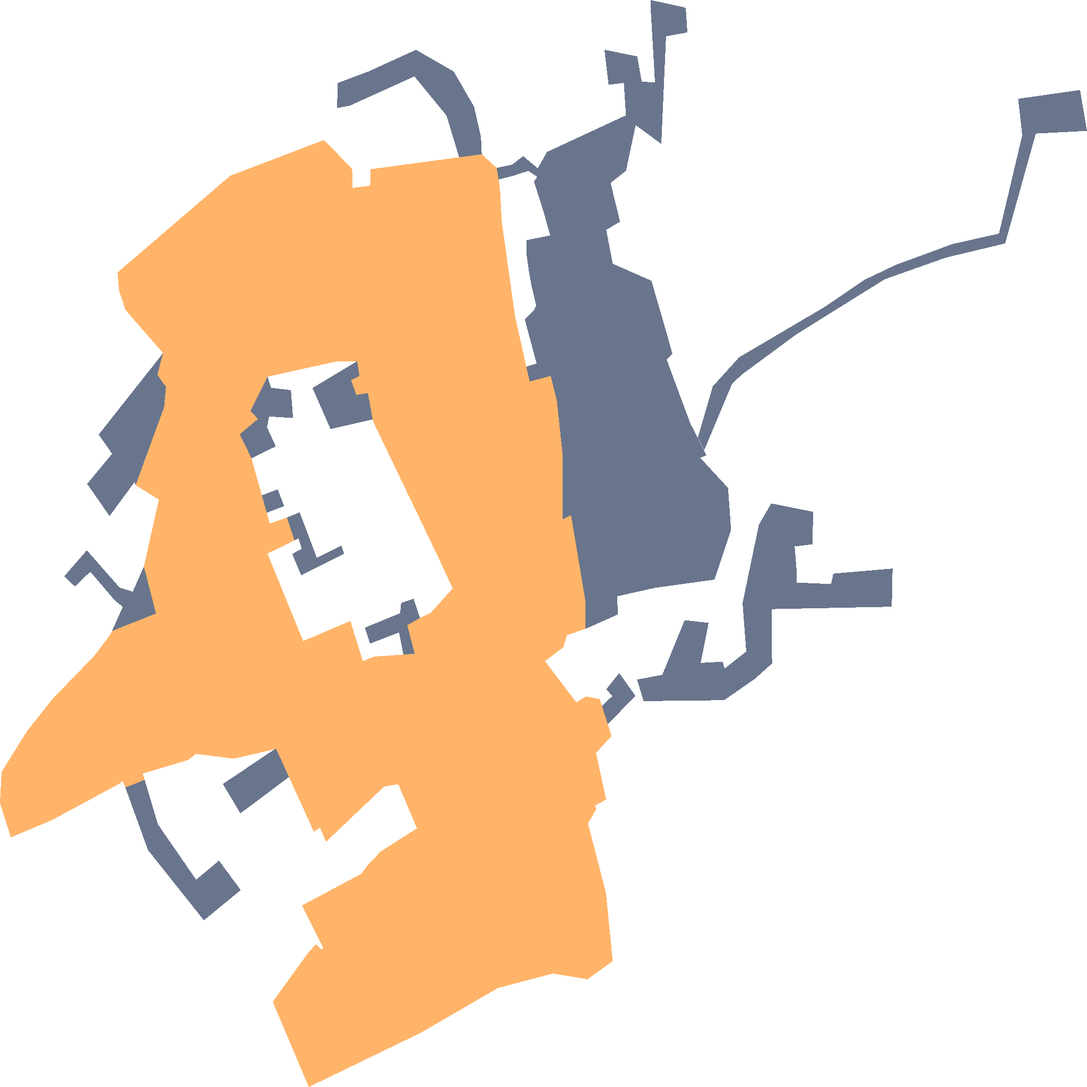
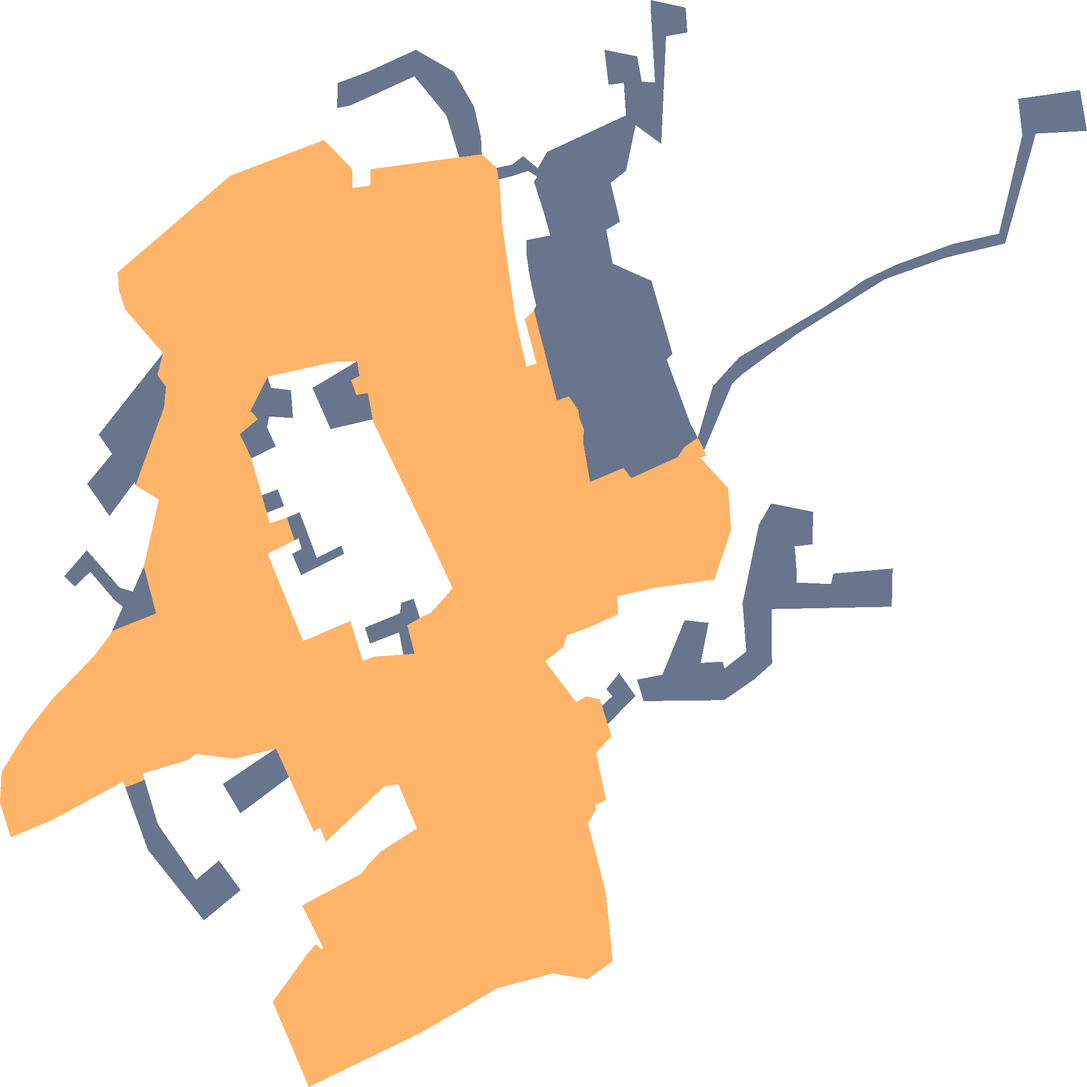
Karte p_67

Changed region(s): [[0.5, 0.3438, 0.6875, 0.5938], [0.4688, 0.2812, 0.5, 0.3438]]

diff --git a/p_67.html b/p_67.html
@@ -141,7 +141,7 @@
         L.control.zoom({
             position: 'topleft'
         }).addTo(map);
-        const geoJsonData = {"type": "FeatureCollection", "features": [{"type": "Feature", "geometry": {"type": "MultiPolygon", "coordinates": [[[[9.317827734, 49.126337592], [9.317357299, 49.127087081], [9.317508766, 49.127119823], [9.317640221, 49.127149886], [9.317758483, 49.127178162], [9.318033216, 49.126645069], [9.318826487, 49.125983083], [9.319299537, 49.126211683], [9.319750755, 49.125859258], [9.318986595, 49.125497304], [9.317827734, 49.126337592]]]]}, "properties": {"dgn_phase": 2}}, {"type": "Feature", "geometry": {"type": "MultiPolygon", "coordinates": [[[[9.329229399, 49.131269641], [9.329540521, 49.131883936], [9.330086349, 49.132232153], [9.331873936, 49.132839293], [9.332684491, 49.133158932], [9.333342213, 49.133339285], [9.334513013, 49.133587494], [9.3354764, 49.133712491], [9.335959458, 49.134889231], [9.335874854, 49.13532492], [9.337157551, 49.135430271], [9.337302194, 49.134941014], [9.33624056, 49.134908873], [9.335604669, 49.133594637], [9.334373828, 49.133424998], [9.333107506, 49.133166075], [9.331278984, 49.132508938], [9.330132744, 49.132021437], [9.329938975, 49.131912507], [9.329363127, 49.131121423], [9.329229399, 49.131269641]]]]}, "properties": {"dgn_phase": 2}}, {"type": "Feature", "geometry": {"type": "MultiPolygon", "coordinates": [[[[9.327969901, 49.128377083], [9.328493896, 49.12843423], [9.328957849, 49.129087849], [9.329454554, 49.129055704], [9.329290804, 49.128577099], [9.329743841, 49.128591385], [9.329787508, 49.128509236], [9.330235087, 49.128712823], [9.330158671, 49.129291433], [9.330497085, 49.130230768], [9.330753624, 49.130484349], [9.331621491, 49.130384346], [9.331610574, 49.129995043], [9.33123941, 49.129970042], [9.331283076, 49.12965574], [9.331283076, 49.129537876], [9.331992653, 49.129520018], [9.332041777, 49.129645026], [9.33326989, 49.129705742], [9.333253516, 49.129248573], [9.330759082, 49.12922], [9.330769998, 49.128569955], [9.330409752, 49.128384226], [9.329776592, 49.128130634], [9.328106358, 49.128119919], [9.327969901, 49.128377083]]]]}, "properties": {"dgn_phase": 2}}, {"type": "Feature", "geometry": {"type": "MultiPolygon", "coordinates": [[[[9.324280104, 49.134625404], [9.324749515, 49.134661116], [9.325058591, 49.134498624], [9.325100551, 49.134360683], [9.325131936, 49.134222296], [9.325162981, 49.133863826], [9.325439988, 49.132725009], [9.325674366, 49.132120151], [9.32574315, 49.131942637], [9.326178188, 49.132009941], [9.326288673, 49.131758789], [9.326307855, 49.131715184], [9.326428539, 49.131056059], [9.326426021, 49.130672527], [9.326428629, 49.130295651], [9.326601751, 49.130345187], [9.326790599, 49.129694304], [9.326899884, 49.129310454], [9.326901812, 49.128984463], [9.326516634, 49.128907926], [9.326441923, 49.128764613], [9.326062233, 49.128597189], [9.326709038, 49.128104292], [9.326912358, 49.128175293], [9.327197475, 49.128144003], [9.327243053, 49.128061047], [9.327361938, 49.12784466], [9.327440621, 49.12770145], [9.327119774, 49.127499773], [9.327329918, 49.126940786], [9.327107492, 49.126874707], [9.327119888, 49.126823065], [9.3269525, 49.126658761], [9.327327303, 49.125820562], [9.327465578, 49.125008543], [9.326943745, 49.124792737], [9.326223251, 49.124860605], [9.325085201, 49.124687364], [9.323483195, 49.124151564], [9.321163426, 49.123503239], [9.320414277, 49.12452216], [9.321132723, 49.125096801], [9.321312846, 49.125211995], [9.321431565, 49.125142343], [9.321458173, 49.125171811], [9.321020146, 49.125674114], [9.322252353, 49.126054521], [9.322400264, 49.126167051], [9.32265926, 49.126322964], [9.32340678, 49.126596997], [9.323017876, 49.127126074], [9.322725176, 49.127097946], [9.321519579, 49.126436264], [9.321395517, 49.126606969], [9.321267793, 49.12655682], [9.320750884, 49.12721155], [9.320714255, 49.127257945], [9.320554071, 49.127460839], [9.320485009, 49.127548315], [9.32045503, 49.12754428], [9.319612479, 49.127430867], [9.318819209, 49.127488016], [9.318666377, 49.127416579], [9.317785774, 49.127264183], [9.317720275, 49.127254658], [9.317758483, 49.127178162], [9.317640221, 49.127149886], [9.317508766, 49.127119823], [9.317357299, 49.127087081], [9.317304424, 49.12716447], [9.317223571, 49.127128455], [9.315830686, 49.126694777], [9.314981923, 49.126489395], [9.314758134, 49.126901942], [9.314790829, 49.127272417], [9.315317534, 49.127758998], [9.315831594, 49.128135357], [9.316716683, 49.128663601], [9.317042632, 49.128911551], [9.317080734, 49.128958782], [9.317993187, 49.129167925], [9.317742295, 49.129731115], [9.31805351, 49.130530757], [9.317782308, 49.130627423], [9.317570324, 49.130702981], [9.318162641, 49.131638603], [9.318200041, 49.131880488], [9.318021685, 49.13202214], [9.318139539, 49.132282599], [9.317359005, 49.132800454], [9.3173172, 49.132873396], [9.317228006, 49.133029023], [9.317195257, 49.133246876], [9.319531401, 49.134403985], [9.321480007, 49.134832537], [9.322060631, 49.134486124], [9.322070865, 49.134258455], [9.322435205, 49.13428524], [9.322440663, 49.134482553], [9.324280104, 49.134625404]], [[9.320305331, 49.132001208], [9.319952009, 49.131591967], [9.320108938, 49.131494813], [9.319731669, 49.131312426], [9.319972502, 49.131024938], [9.320188839, 49.130581465], [9.320290459, 49.13037315], [9.320353724, 49.130243461], [9.320709949, 49.130315846], [9.32086573, 49.130041933], [9.320305664, 49.129883401], [9.321045997, 49.12883745], [9.322024064, 49.129078851], [9.322283738, 49.128597189], [9.322521173, 49.128653444], [9.322697791, 49.128658585], [9.323124161, 49.128676263], [9.323338308, 49.128685142], [9.323359374, 49.128684288], [9.323204591, 49.1290282], [9.323467483, 49.12911386], [9.323691974, 49.129175801], [9.324146376, 49.129467783], [9.323843442, 49.129845482], [9.322492517, 49.131468752], [9.322486049, 49.131489554], [9.322387859, 49.131805309], [9.322148838, 49.131782631], [9.322038172, 49.1319597], [9.322211296, 49.132009245], [9.322166699, 49.13218613], [9.321744842, 49.132183972], [9.320305331, 49.132001208]]]]}, "properties": {"dgn_phase": 1}}, {"type": "Feature", "geometry": {"type": "MultiPolygon", "coordinates": [[[[9.324280104, 49.134625404], [9.324018107, 49.135125379], [9.323352196, 49.135593208], [9.322014918, 49.135243229], [9.321747463, 49.135214659], [9.321763837, 49.135514641], [9.322407914, 49.135653917], [9.323384946, 49.135911043], [9.324170939, 49.135650346], [9.324591226, 49.135228944], [9.324733141, 49.13486825], [9.324749515, 49.134661116], [9.324280104, 49.134625404]]]]}, "properties": {"dgn_phase": 2}}, {"type": "Feature", "geometry": {"type": "MultiPolygon", "coordinates": [[[[9.325886876, 49.132159015], [9.325641293, 49.132686657], [9.325832985, 49.132794651], [9.326178188, 49.132009941], [9.32574315, 49.131942637], [9.325674366, 49.132120151], [9.325886876, 49.132159015]]]]}, "properties": {"dgn_phase": 2}}, {"type": "Feature", "geometry": {"type": "MultiPolygon", "coordinates": [[[[9.320517722, 49.130652393], [9.320654899, 49.13044857], [9.320632024, 49.130447799], [9.320290459, 49.13037315], [9.320188839, 49.130581465], [9.320517722, 49.130652393]]]]}, "properties": {"dgn_phase": 2}}, {"type": "Feature", "geometry": {"type": "MultiPolygon", "coordinates": [[[[9.317236194, 49.129478944], [9.317137945, 49.129325363], [9.316630324, 49.12966824], [9.316313744, 49.129489659], [9.316089955, 49.129612881], [9.316559367, 49.129923611], [9.317236194, 49.129478944]]]]}, "properties": {"dgn_phase": 2}}, {"type": "Feature", "geometry": {"type": "MultiPolygon", "coordinates": [[[[9.32097336, 49.130378481], [9.32132814, 49.129833869], [9.321837313, 49.129980863], [9.321895121, 49.129882317], [9.321004069, 49.129624658], [9.320817677, 49.129880312], [9.321016279, 49.12994146], [9.320948489, 49.130068383], [9.32086573, 49.130041933], [9.320709949, 49.130315846], [9.32097336, 49.130378481]]]]}, "properties": {"dgn_phase": 2}}, {"type": "Feature", "geometry": {"type": "MultiPolygon", "coordinates": [[[[9.328135014, 49.130108887], [9.329004927, 49.130221392], [9.329076567, 49.130394168], [9.329170722, 49.130481224], [9.329131832, 49.130679446], [9.328994692, 49.130675428], [9.328839132, 49.13091115], [9.329281252, 49.131030349], [9.329477273, 49.130907546], [9.329858466, 49.130668731], [9.329919872, 49.130170498], [9.329576, 49.129573147], [9.328335605, 49.129474034], [9.327561798, 49.129373975], [9.32751516, 49.129367945], [9.327450569, 49.129359592], [9.327283181, 49.130100108], [9.328135014, 49.130108887]]]]}, "properties": {"dgn_phase": 2}}, {"type": "Feature", "geometry": {"type": "MultiPolygon", "coordinates": [[[[9.323338308, 49.128685142], [9.323124161, 49.128676263], [9.323035045, 49.128941129], [9.322431948, 49.128807742], [9.322326458, 49.128998138], [9.323056869, 49.12917119], [9.323077998, 49.129294532], [9.323337508, 49.129343831], [9.323467483, 49.12911386], [9.323204591, 49.1290282], [9.323359374, 49.128684288], [9.323338308, 49.128685142]]]]}, "properties": {"dgn_phase": 2}}, {"type": "Feature", "geometry": {"type": "MultiPolygon", "coordinates": [[[[9.319743159, 49.126776622], [9.319379519, 49.127127817], [9.32045503, 49.12754428], [9.320485009, 49.127548315], [9.320554071, 49.127460839], [9.320714255, 49.127257945], [9.320750884, 49.12721155], [9.319743159, 49.126776622]]]]}, "properties": {"dgn_phase": 2}}, {"type": "Feature", "geometry": {"type": "MultiPolygon", "coordinates": [[[[9.317510866, 49.129428047], [9.317742295, 49.129731115], [9.317993187, 49.129167925], [9.317080734, 49.128958782], [9.317304849, 49.129247121], [9.317137945, 49.129325363], [9.317236194, 49.129478944], [9.317510866, 49.129428047]]]]}, "properties": {"dgn_phase": 2}}, {"type": "Feature", "geometry": {"type": "MultiPolygon", "coordinates": [[[[9.320380707, 49.131867593], [9.320792202, 49.13183977], [9.320835792, 49.131506136], [9.320337835, 49.131524194], [9.320296339, 49.13139424], [9.320377011, 49.131293962], [9.320477838, 49.131166947], [9.319972502, 49.131024938], [9.319731669, 49.131312426], [9.320108938, 49.131494813], [9.319952009, 49.131591967], [9.320305331, 49.132001208], [9.320380707, 49.131867593]]]]}, "properties": {"dgn_phase": 2}}, {"type": "Feature", "geometry": {"type": "MultiPolygon", "coordinates": [[[[9.327942201, 49.1350103], [9.327896016, 49.135011148], [9.3278496, 49.135012], [9.3276928, 49.1349799], [9.327194764, 49.134864739], [9.3263833, 49.1346771], [9.3262914, 49.1346599], [9.326277493, 49.134625404], [9.326172421, 49.134496838], [9.326133532, 49.134468268], [9.32595136, 49.134434341], [9.325898501, 49.1343928], [9.325715972, 49.134462465], [9.325366643, 49.134398181], [9.325100551, 49.134360683], [9.325058591, 49.134498624], [9.325378924, 49.134537462], [9.325609536, 49.134639242], [9.3259119, 49.1344922], [9.326101122, 49.134688347], [9.327740653, 49.13512761], [9.327695622, 49.13551598], [9.327380407, 49.135491875], [9.327294438, 49.135912382], [9.327973994, 49.13583203], [9.32806815, 49.135529372], [9.328342429, 49.135521337], [9.328248273, 49.136453411], [9.328248273, 49.136506979], [9.328936016, 49.136421271], [9.328981048, 49.136410558], [9.329013796, 49.136118616], [9.328571677, 49.136073084], [9.328473427, 49.134784772], [9.327942201, 49.1350103]]]]}, "properties": {"dgn_phase": 2}}, {"type": "Feature", "geometry": {"type": "MultiPolygon", "coordinates": [[[[9.327942201, 49.1350103], [9.327740654, 49.134463358], [9.327421343, 49.134318721], [9.327617841, 49.133855344], [9.327331282, 49.13375624], [9.327466374, 49.133351786], [9.328268742, 49.133148217], [9.32860852, 49.132473224], [9.328702675, 49.13227501], [9.32858589, 49.13220254], [9.329077136, 49.131438245], [9.329229399, 49.131269641], [9.329225738, 49.131268179], [9.328956485, 49.13116071], [9.328808771, 49.131037642], [9.327851752, 49.130787634], [9.327691642, 49.130909066], [9.326996622, 49.130742395], [9.326851068, 49.131220979], [9.326869261, 49.131368602], [9.326774652, 49.131504318], [9.326751339, 49.131596879], [9.326558602, 49.131765177], [9.326547527, 49.131764031], [9.326307855, 49.131715184], [9.326288673, 49.131758789], [9.326178188, 49.132009941], [9.325832985, 49.132794651], [9.3258775, 49.1328533], [9.3257818, 49.1330881], [9.3257271, 49.1332604], [9.3256741, 49.1334762], [9.325674808, 49.133633476], [9.326169692, 49.133690617], [9.326031416, 49.133973941], [9.3258342, 49.1343316], [9.325898501, 49.1343928], [9.32595136, 49.134434341], [9.326133532, 49.134468268], [9.326172421, 49.134496838], [9.326277493, 49.134625404], [9.3262914, 49.1346599], [9.3263833, 49.1346771], [9.327194764, 49.134864739], [9.3276928, 49.1349799], [9.3278496, 49.135012], [9.327896016, 49.135011148], [9.327942201, 49.1350103]]]]}, "properties": {"dgn_phase": 2}}, {"type": "Feature", "geometry": {"type": "MultiPolygon", "coordinates": [[[[9.317082451, 49.131078929], [9.316805245, 49.131307882], [9.318139539, 49.132282599], [9.318021685, 49.13202214], [9.318200041, 49.131880488], [9.318162641, 49.131638603], [9.317570324, 49.130702981], [9.317549982, 49.130741233], [9.317030093, 49.130333465], [9.316566472, 49.130717886], [9.317082451, 49.131078929]]]]}, "properties": {"dgn_phase": 2}}, {"type": "Feature", "geometry": {"type": "MultiPolygon", "coordinates": [[[[9.329225738, 49.131268179], [9.32940682, 49.131060942], [9.329281252, 49.131030349], [9.328839132, 49.13091115], [9.328994692, 49.130675428], [9.329131832, 49.130679446], [9.329170722, 49.130481224], [9.329076567, 49.130394168], [9.329004927, 49.130221392], [9.328135014, 49.130108887], [9.327283181, 49.130100108], [9.327450569, 49.129359592], [9.32751516, 49.129367945], [9.327561798, 49.129373975], [9.327569705, 49.129155141], [9.326901812, 49.128984463], [9.326899884, 49.129310454], [9.326790599, 49.129694304], [9.326601751, 49.130345187], [9.326428629, 49.130295651], [9.326426021, 49.130672527], [9.326428539, 49.131056059], [9.326307855, 49.131715184], [9.326547527, 49.131764031], [9.326558602, 49.131765177], [9.326751339, 49.131596879], [9.326774652, 49.131504318], [9.326869261, 49.131368602], [9.326851068, 49.131220979], [9.326996622, 49.130742395], [9.327691642, 49.130909066], [9.327851752, 49.130787634], [9.328808771, 49.131037642], [9.328956485, 49.13116071], [9.329225738, 49.131268179]]]]}, "properties": {"dgn_phase": 2}}, {"type": "Feature", "geometry": {"type": "MultiPolygon", "coordinates": [[[[9.321612541, 49.131373905], [9.32123962, 49.131865206], [9.322166699, 49.13218613], [9.322211296, 49.132009245], [9.322038172, 49.1319597], [9.322148838, 49.131782631], [9.322387859, 49.131805309], [9.322486049, 49.131489554], [9.321612541, 49.131373905]]]]}, "properties": {"dgn_phase": 2}}, {"type": "Feature", "geometry": {"type": "MultiPolygon", "coordinates": [[[[9.327456553, 49.128179103], [9.327335135, 49.128262825], [9.327600671, 49.128455509], [9.32793936, 49.128181067], [9.327361938, 49.12784466], [9.327243053, 49.128061047], [9.327456553, 49.128179103]]]]}, "properties": {"dgn_phase": 2}}]};
+        const geoJsonData = {"type": "FeatureCollection", "features": [{"type": "Feature", "geometry": {"type": "MultiPolygon", "coordinates": [[[[9.328135014, 49.130108887], [9.329004927, 49.130221392], [9.329076567, 49.130394168], [9.329170722, 49.130481224], [9.329131832, 49.130679446], [9.328994692, 49.130675428], [9.328839132, 49.13091115], [9.329281252, 49.131030349], [9.329477273, 49.130907546], [9.329858466, 49.130668731], [9.329919872, 49.130170498], [9.329576, 49.129573147], [9.328335605, 49.129474034], [9.327561798, 49.129373975], [9.32751516, 49.129367945], [9.327450569, 49.129359592], [9.327283181, 49.130100108], [9.328135014, 49.130108887]]]]}, "properties": {"dgn_phase": 1}}, {"type": "Feature", "geometry": {"type": "MultiPolygon", "coordinates": [[[[9.317827734, 49.126337592], [9.317357299, 49.127087081], [9.317508766, 49.127119823], [9.317640221, 49.127149886], [9.317758483, 49.127178162], [9.318033216, 49.126645069], [9.318826487, 49.125983083], [9.319299537, 49.126211683], [9.319750755, 49.125859258], [9.318986595, 49.125497304], [9.317827734, 49.126337592]]]]}, "properties": {"dgn_phase": 2}}, {"type": "Feature", "geometry": {"type": "MultiPolygon", "coordinates": [[[[9.329229399, 49.131269641], [9.329540521, 49.131883936], [9.330086349, 49.132232153], [9.331873936, 49.132839293], [9.332684491, 49.133158932], [9.333342213, 49.133339285], [9.334513013, 49.133587494], [9.3354764, 49.133712491], [9.335959458, 49.134889231], [9.335874854, 49.13532492], [9.337157551, 49.135430271], [9.337302194, 49.134941014], [9.33624056, 49.134908873], [9.335604669, 49.133594637], [9.334373828, 49.133424998], [9.333107506, 49.133166075], [9.331278984, 49.132508938], [9.330132744, 49.132021437], [9.329938975, 49.131912507], [9.329363127, 49.131121423], [9.329229399, 49.131269641]]]]}, "properties": {"dgn_phase": 2}}, {"type": "Feature", "geometry": {"type": "MultiPolygon", "coordinates": [[[[9.327969901, 49.128377083], [9.328493896, 49.12843423], [9.328957849, 49.129087849], [9.329454554, 49.129055704], [9.329290804, 49.128577099], [9.329743841, 49.128591385], [9.329787508, 49.128509236], [9.330235087, 49.128712823], [9.330158671, 49.129291433], [9.330497085, 49.130230768], [9.330753624, 49.130484349], [9.331621491, 49.130384346], [9.331610574, 49.129995043], [9.33123941, 49.129970042], [9.331283076, 49.12965574], [9.331283076, 49.129537876], [9.331992653, 49.129520018], [9.332041777, 49.129645026], [9.33326989, 49.129705742], [9.333253516, 49.129248573], [9.330759082, 49.12922], [9.330769998, 49.128569955], [9.330409752, 49.128384226], [9.329776592, 49.128130634], [9.328106358, 49.128119919], [9.327969901, 49.128377083]]]]}, "properties": {"dgn_phase": 2}}, {"type": "Feature", "geometry": {"type": "MultiPolygon", "coordinates": [[[[9.324280104, 49.134625404], [9.324749515, 49.134661116], [9.325058591, 49.134498624], [9.325100551, 49.134360683], [9.325131936, 49.134222296], [9.325162981, 49.133863826], [9.325439988, 49.132725009], [9.325674366, 49.132120151], [9.32574315, 49.131942637], [9.326178188, 49.132009941], [9.326288673, 49.131758789], [9.326307855, 49.131715184], [9.326428539, 49.131056059], [9.326426021, 49.130672527], [9.326428629, 49.130295651], [9.326601751, 49.130345187], [9.326790599, 49.129694304], [9.326899884, 49.129310454], [9.326901812, 49.128984463], [9.326516634, 49.128907926], [9.326441923, 49.128764613], [9.326062233, 49.128597189], [9.326709038, 49.128104292], [9.326912358, 49.128175293], [9.327197475, 49.128144003], [9.327243053, 49.128061047], [9.327361938, 49.12784466], [9.327440621, 49.12770145], [9.327119774, 49.127499773], [9.327329918, 49.126940786], [9.327107492, 49.126874707], [9.327119888, 49.126823065], [9.3269525, 49.126658761], [9.327327303, 49.125820562], [9.327465578, 49.125008543], [9.326943745, 49.124792737], [9.326223251, 49.124860605], [9.325085201, 49.124687364], [9.323483195, 49.124151564], [9.321163426, 49.123503239], [9.320414277, 49.12452216], [9.321132723, 49.125096801], [9.321312846, 49.125211995], [9.321431565, 49.125142343], [9.321458173, 49.125171811], [9.321020146, 49.125674114], [9.322252353, 49.126054521], [9.322400264, 49.126167051], [9.32265926, 49.126322964], [9.32340678, 49.126596997], [9.323017876, 49.127126074], [9.322725176, 49.127097946], [9.321519579, 49.126436264], [9.321395517, 49.126606969], [9.321267793, 49.12655682], [9.320750884, 49.12721155], [9.320714255, 49.127257945], [9.320554071, 49.127460839], [9.320485009, 49.127548315], [9.32045503, 49.12754428], [9.319612479, 49.127430867], [9.318819209, 49.127488016], [9.318666377, 49.127416579], [9.317785774, 49.127264183], [9.317720275, 49.127254658], [9.317758483, 49.127178162], [9.317640221, 49.127149886], [9.317508766, 49.127119823], [9.317357299, 49.127087081], [9.317304424, 49.12716447], [9.317223571, 49.127128455], [9.315830686, 49.126694777], [9.314981923, 49.126489395], [9.314758134, 49.126901942], [9.314790829, 49.127272417], [9.315317534, 49.127758998], [9.315831594, 49.128135357], [9.316716683, 49.128663601], [9.317042632, 49.128911551], [9.317080734, 49.128958782], [9.317993187, 49.129167925], [9.317742295, 49.129731115], [9.31805351, 49.130530757], [9.317782308, 49.130627423], [9.317570324, 49.130702981], [9.318162641, 49.131638603], [9.318200041, 49.131880488], [9.318021685, 49.13202214], [9.318139539, 49.132282599], [9.317359005, 49.132800454], [9.3173172, 49.132873396], [9.317228006, 49.133029023], [9.317195257, 49.133246876], [9.319531401, 49.134403985], [9.321480007, 49.134832537], [9.322060631, 49.134486124], [9.322070865, 49.134258455], [9.322435205, 49.13428524], [9.322440663, 49.134482553], [9.324280104, 49.134625404]], [[9.320305331, 49.132001208], [9.319952009, 49.131591967], [9.320108938, 49.131494813], [9.319731669, 49.131312426], [9.319972502, 49.131024938], [9.320188839, 49.130581465], [9.320290459, 49.13037315], [9.320353724, 49.130243461], [9.320709949, 49.130315846], [9.32086573, 49.130041933], [9.320305664, 49.129883401], [9.321045997, 49.12883745], [9.322024064, 49.129078851], [9.322283738, 49.128597189], [9.322521173, 49.128653444], [9.322697791, 49.128658585], [9.323124161, 49.128676263], [9.323338308, 49.128685142], [9.323359374, 49.128684288], [9.323204591, 49.1290282], [9.323467483, 49.12911386], [9.323691974, 49.129175801], [9.324146376, 49.129467783], [9.323843442, 49.129845482], [9.322492517, 49.131468752], [9.322486049, 49.131489554], [9.322387859, 49.131805309], [9.322148838, 49.131782631], [9.322038172, 49.1319597], [9.322211296, 49.132009245], [9.322166699, 49.13218613], [9.321744842, 49.132183972], [9.320305331, 49.132001208]]]]}, "properties": {"dgn_phase": 1}}, {"type": "Feature", "geometry": {"type": "MultiPolygon", "coordinates": [[[[9.324280104, 49.134625404], [9.324018107, 49.135125379], [9.323352196, 49.135593208], [9.322014918, 49.135243229], [9.321747463, 49.135214659], [9.321763837, 49.135514641], [9.322407914, 49.135653917], [9.323384946, 49.135911043], [9.324170939, 49.135650346], [9.324591226, 49.135228944], [9.324733141, 49.13486825], [9.324749515, 49.134661116], [9.324280104, 49.134625404]]]]}, "properties": {"dgn_phase": 2}}, {"type": "Feature", "geometry": {"type": "MultiPolygon", "coordinates": [[[[9.325886876, 49.132159015], [9.325641293, 49.132686657], [9.325832985, 49.132794651], [9.326178188, 49.132009941], [9.32574315, 49.131942637], [9.325674366, 49.132120151], [9.325886876, 49.132159015]]]]}, "properties": {"dgn_phase": 1}}, {"type": "Feature", "geometry": {"type": "MultiPolygon", "coordinates": [[[[9.320517722, 49.130652393], [9.320654899, 49.13044857], [9.320632024, 49.130447799], [9.320290459, 49.13037315], [9.320188839, 49.130581465], [9.320517722, 49.130652393]]]]}, "properties": {"dgn_phase": 2}}, {"type": "Feature", "geometry": {"type": "MultiPolygon", "coordinates": [[[[9.317236194, 49.129478944], [9.317137945, 49.129325363], [9.316630324, 49.12966824], [9.316313744, 49.129489659], [9.316089955, 49.129612881], [9.316559367, 49.129923611], [9.317236194, 49.129478944]]]]}, "properties": {"dgn_phase": 2}}, {"type": "Feature", "geometry": {"type": "MultiPolygon", "coordinates": [[[[9.32097336, 49.130378481], [9.32132814, 49.129833869], [9.321837313, 49.129980863], [9.321895121, 49.129882317], [9.321004069, 49.129624658], [9.320817677, 49.129880312], [9.321016279, 49.12994146], [9.320948489, 49.130068383], [9.32086573, 49.130041933], [9.320709949, 49.130315846], [9.32097336, 49.130378481]]]]}, "properties": {"dgn_phase": 2}}, {"type": "Feature", "geometry": {"type": "MultiPolygon", "coordinates": [[[[9.323338308, 49.128685142], [9.323124161, 49.128676263], [9.323035045, 49.128941129], [9.322431948, 49.128807742], [9.322326458, 49.128998138], [9.323056869, 49.12917119], [9.323077998, 49.129294532], [9.323337508, 49.129343831], [9.323467483, 49.12911386], [9.323204591, 49.1290282], [9.323359374, 49.128684288], [9.323338308, 49.128685142]]]]}, "properties": {"dgn_phase": 2}}, {"type": "Feature", "geometry": {"type": "MultiPolygon", "coordinates": [[[[9.319743159, 49.126776622], [9.319379519, 49.127127817], [9.32045503, 49.12754428], [9.320485009, 49.127548315], [9.320554071, 49.127460839], [9.320714255, 49.127257945], [9.320750884, 49.12721155], [9.319743159, 49.126776622]]]]}, "properties": {"dgn_phase": 2}}, {"type": "Feature", "geometry": {"type": "MultiPolygon", "coordinates": [[[[9.317510866, 49.129428047], [9.317742295, 49.129731115], [9.317993187, 49.129167925], [9.317080734, 49.128958782], [9.317304849, 49.129247121], [9.317137945, 49.129325363], [9.317236194, 49.129478944], [9.317510866, 49.129428047]]]]}, "properties": {"dgn_phase": 2}}, {"type": "Feature", "geometry": {"type": "MultiPolygon", "coordinates": [[[[9.320380707, 49.131867593], [9.320792202, 49.13183977], [9.320835792, 49.131506136], [9.320337835, 49.131524194], [9.320296339, 49.13139424], [9.320377011, 49.131293962], [9.320477838, 49.131166947], [9.319972502, 49.131024938], [9.319731669, 49.131312426], [9.320108938, 49.131494813], [9.319952009, 49.131591967], [9.320305331, 49.132001208], [9.320380707, 49.131867593]]]]}, "properties": {"dgn_phase": 2}}, {"type": "Feature", "geometry": {"type": "MultiPolygon", "coordinates": [[[[9.327942201, 49.1350103], [9.327896016, 49.135011148], [9.3278496, 49.135012], [9.3276928, 49.1349799], [9.327194764, 49.134864739], [9.3263833, 49.1346771], [9.3262914, 49.1346599], [9.326277493, 49.134625404], [9.326172421, 49.134496838], [9.326133532, 49.134468268], [9.32595136, 49.134434341], [9.325898501, 49.1343928], [9.325715972, 49.134462465], [9.325366643, 49.134398181], [9.325100551, 49.134360683], [9.325058591, 49.134498624], [9.325378924, 49.134537462], [9.325609536, 49.134639242], [9.3259119, 49.1344922], [9.326101122, 49.134688347], [9.327740653, 49.13512761], [9.327695622, 49.13551598], [9.327380407, 49.135491875], [9.327294438, 49.135912382], [9.327973994, 49.13583203], [9.32806815, 49.135529372], [9.328342429, 49.135521337], [9.328248273, 49.136453411], [9.328248273, 49.136506979], [9.328936016, 49.136421271], [9.328981048, 49.136410558], [9.329013796, 49.136118616], [9.328571677, 49.136073084], [9.328473427, 49.134784772], [9.327942201, 49.1350103]]]]}, "properties": {"dgn_phase": 2}}, {"type": "Feature", "geometry": {"type": "MultiPolygon", "coordinates": [[[[9.327942201, 49.1350103], [9.327740654, 49.134463358], [9.327421343, 49.134318721], [9.327617841, 49.133855344], [9.327331282, 49.13375624], [9.327466374, 49.133351786], [9.328268742, 49.133148217], [9.32860852, 49.132473224], [9.328702675, 49.13227501], [9.32858589, 49.13220254], [9.329077136, 49.131438245], [9.329229399, 49.131269641], [9.329225738, 49.131268179], [9.328956485, 49.13116071], [9.328808771, 49.131037642], [9.327851752, 49.130787634], [9.327691642, 49.130909066], [9.326996622, 49.130742395], [9.326851068, 49.131220979], [9.326869261, 49.131368602], [9.326774652, 49.131504318], [9.326751339, 49.131596879], [9.326558602, 49.131765177], [9.326547527, 49.131764031], [9.326307855, 49.131715184], [9.326288673, 49.131758789], [9.326178188, 49.132009941], [9.325832985, 49.132794651], [9.3258775, 49.1328533], [9.3257818, 49.1330881], [9.3257271, 49.1332604], [9.3256741, 49.1334762], [9.325674808, 49.133633476], [9.326169692, 49.133690617], [9.326031416, 49.133973941], [9.3258342, 49.1343316], [9.325898501, 49.1343928], [9.32595136, 49.134434341], [9.326133532, 49.134468268], [9.326172421, 49.134496838], [9.326277493, 49.134625404], [9.3262914, 49.1346599], [9.3263833, 49.1346771], [9.327194764, 49.134864739], [9.3276928, 49.1349799], [9.3278496, 49.135012], [9.327896016, 49.135011148], [9.327942201, 49.1350103]]]]}, "properties": {"dgn_phase": 2}}, {"type": "Feature", "geometry": {"type": "MultiPolygon", "coordinates": [[[[9.329225738, 49.131268179], [9.32940682, 49.131060942], [9.329281252, 49.131030349], [9.328839132, 49.13091115], [9.328994692, 49.130675428], [9.329131832, 49.130679446], [9.329170722, 49.130481224], [9.329076567, 49.130394168], [9.329004927, 49.130221392], [9.328135014, 49.130108887], [9.327283181, 49.130100108], [9.327450569, 49.129359592], [9.32751516, 49.129367945], [9.327561798, 49.129373975], [9.327569705, 49.129155141], [9.326901812, 49.128984463], [9.326899884, 49.129310454], [9.326790599, 49.129694304], [9.326601751, 49.130345187], [9.326428629, 49.130295651], [9.326426021, 49.130672527], [9.326428539, 49.131056059], [9.326307855, 49.131715184], [9.326547527, 49.131764031], [9.326558602, 49.131765177], [9.326751339, 49.131596879], [9.326774652, 49.131504318], [9.326869261, 49.131368602], [9.326851068, 49.131220979], [9.326996622, 49.130742395], [9.327691642, 49.130909066], [9.327851752, 49.130787634], [9.328808771, 49.131037642], [9.328956485, 49.13116071], [9.329225738, 49.131268179]]]]}, "properties": {"dgn_phase": 1}}, {"type": "Feature", "geometry": {"type": "MultiPolygon", "coordinates": [[[[9.317082451, 49.131078929], [9.316805245, 49.131307882], [9.318139539, 49.132282599], [9.318021685, 49.13202214], [9.318200041, 49.131880488], [9.318162641, 49.131638603], [9.317570324, 49.130702981], [9.317549982, 49.130741233], [9.317030093, 49.130333465], [9.316566472, 49.130717886], [9.317082451, 49.131078929]]]]}, "properties": {"dgn_phase": 2}}, {"type": "Feature", "geometry": {"type": "MultiPolygon", "coordinates": [[[[9.321612541, 49.131373905], [9.32123962, 49.131865206], [9.322166699, 49.13218613], [9.322211296, 49.132009245], [9.322038172, 49.1319597], [9.322148838, 49.131782631], [9.322387859, 49.131805309], [9.322486049, 49.131489554], [9.321612541, 49.131373905]]]]}, "properties": {"dgn_phase": 2}}, {"type": "Feature", "geometry": {"type": "MultiPolygon", "coordinates": [[[[9.327456553, 49.128179103], [9.327335135, 49.128262825], [9.327600671, 49.128455509], [9.32793936, 49.128181067], [9.327361938, 49.12784466], [9.327243053, 49.128061047], [9.327456553, 49.128179103]]]]}, "properties": {"dgn_phase": 2}}]};
          L.imageOverlay("output_tiles/p_67.png", bounds).addTo(map);
         const zoomFullExtentControl = L.Control.extend({
             options: { position: 'topleft' },
